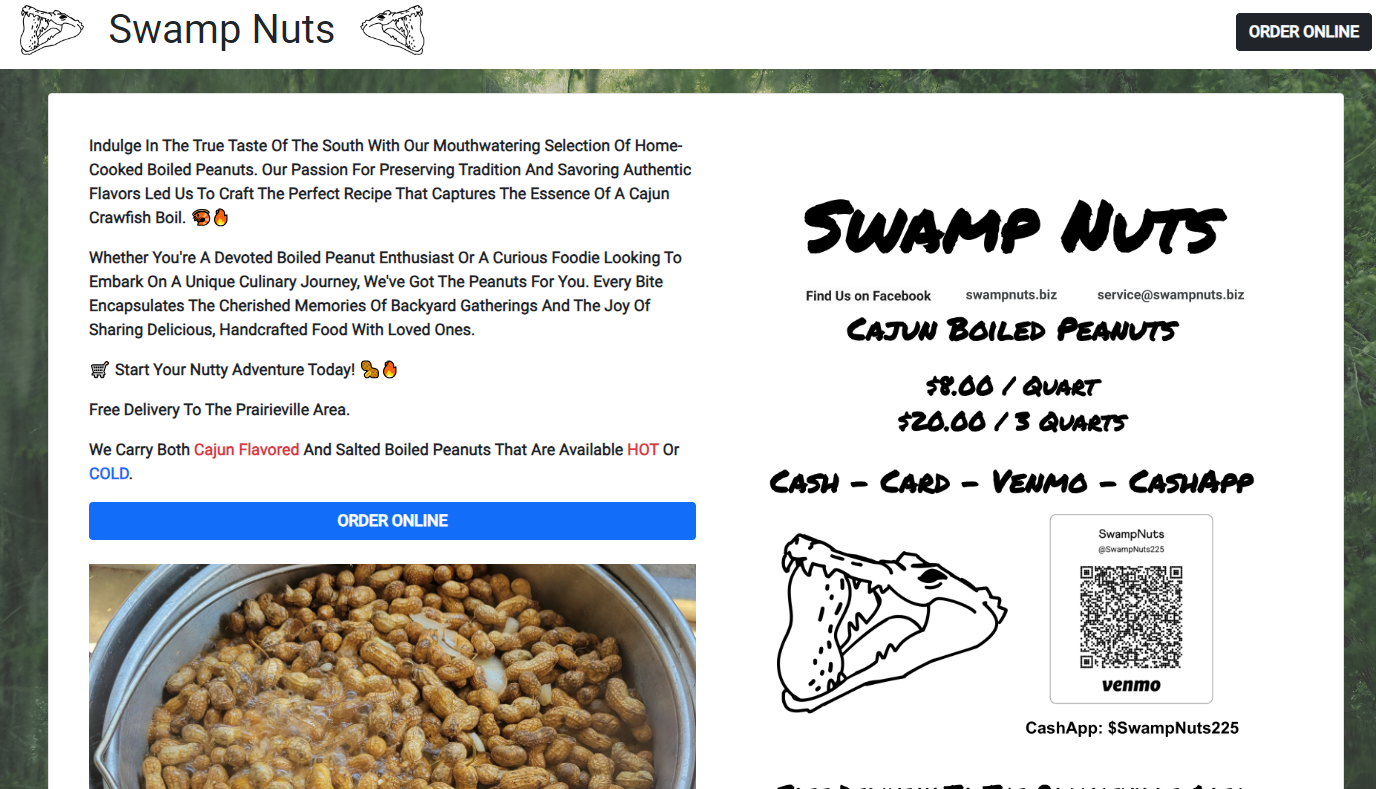
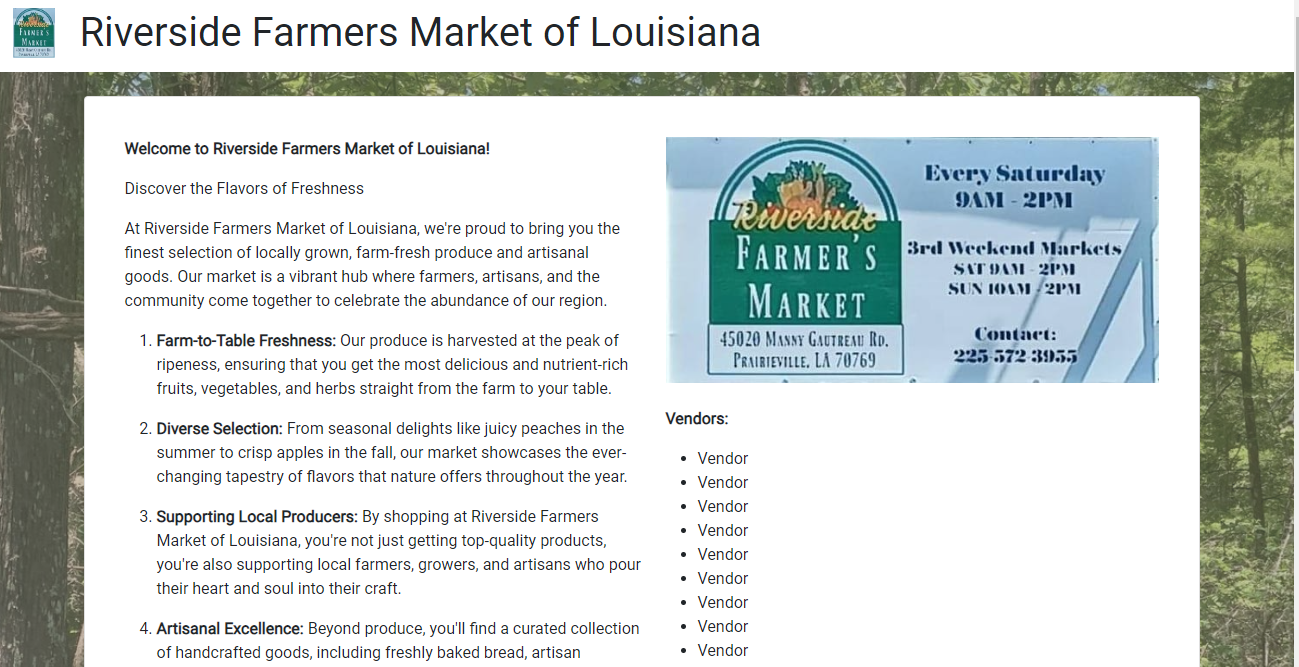
initial

diff --git a/index.html b/index.html
@@ -12,34 +12,14 @@
     <link href="https://cdn.jsdelivr.net/npm/bootstrap@5.0.2/dist/css/bootstrap.min.css" rel="stylesheet" integrity="sha384-EVSTQN3/azprG1Anm3QDgpJLIm9Nao0Yz1ztcQTwFspd3yD65VohhpuuCOmLASjC" crossorigin="anonymous">
     <script src="https://cdn.jsdelivr.net/npm/bootstrap@5.0.2/dist/js/bootstrap.bundle.min.js" integrity="sha384-MrcW6ZMFYlzcLA8Nl+NtUVF0sA7MsXsP1UyJoMp4YLEuNSfAP+JcXn/tWtIaxVXM" crossorigin="anonymous"></script>
  
-    <meta name='keywords' content="prarieville, asenction parish, louisiana, peanuts, boiled peanuts, hot boiled peanuts, cajun, cajun peanuts, cajun boiled peanuts, swamp nuts, nuts, boiled nuts">
-    <meta name='description' content="Swamp Nuts - Cajun Boiled Peanuts Delivered In The Prairieville Area.">
+    <meta name='keywords' content="prarieville, port vincent, asenction parish, louisiana, market, farmers, farmers market, vendors, flea market, swap">
+    <meta name='description' content="Riverside Farmers Market of Louisiana - Open every Saturday 9-2 and 3rd Sunday 10-2 at 45020 Manny Guitrau, Prairieville">
 
     <link rel="preconnect" href="https://fonts.googleapis.com">
     <link rel="preconnect" href="https://fonts.gstatic.com" crossorigin>
     <link href="https://fonts.googleapis.com/css2?family=Roboto&display=swap" rel="stylesheet">
 
-    <title>Swamp Nuts - Cajun Boiled Peanuts Delivered To The Prairieville Area</title>
-
- 
-	<!-- Google tag (gtag.js) -->
-	<script async src="https://www.googletagmanager.com/gtag/js?id=G-9951VXX0Q7"></script>
-	<script>
-	  window.dataLayer = window.dataLayer || [];
-	  function gtag(){dataLayer.push(arguments);}
-	  gtag('js', new Date());
-
-	  gtag('config', 'G-9951VXX0Q7');
-	</script>
-
-    <script>
-        var RecordExternalClick = function (btnName, location) {
-            gtag('event', "external-click - " + btnName, {
-                'event_category': location,
-                'event_label': btnName
-        });
-        }
-    </script>
+    <title>Riverside Farmers Market of Louisiana - Open every Saturday 9-2 and 3rd Sunday 10-2 at 45020 Manny Guitrau, Prairieville</title>
 
 
     <style>
@@ -75,39 +55,11 @@
 
 <div class="pt-2 pb-2 px-4 bg-white ">
     <div class="d-flex flex-row">
-        <img src="./assets/logotrans.png" alt="Swamp Nuts Logo" height="50" class="align-top">
-        <h1 class="align-top mx-4">Swamp Nuts</h1>
-		<img src="./assets/logotrans.png" style="transform: scaleX(-1);" alt="Swamp Nuts Logo" height="50" class="align-top">
+		<img src="./assets/content/Logo.png" alt="Swamp Nuts Logo" height="50" class="align-top">
+        <h1 class="align-top mx-4">Riverside Farmers Market of Louisiana</h1>
 		<div class="flex-grow-1"></div>
-        <div class=" d-none d-md-inline-block mt-2 d-flex">
-            <a onclick="RecordExternalClick('order online', 'header')"
-               href="https://forms.gle/Ld9PyRjF1KjoTsSZ7"
-               class="btn btn-dark text-uppercase d-inline-flex" target="_blank" rel="noreferrer noopener" title="External Link - Order Online">
-                <strong class="d-block">
-                    Order Online
-                </strong>
-            </a>
-        </div>
     </div>
 </div>
-<div class="container my-4 pb-4">
-	<div class="row mt-4">
-		<div class="col-12">
-			<div class="card bg-white">
-				<div class="card-body d-md-flex">
-					<div class="pt-4 ps-4">
-						<p>
-							We are currently <strong class="text-danger">SOLD OUT</strong>. Our next cook will be Friday 9/1/2023. <a class="btn btn-primary text-uppercase " onclick="RecordExternalClick('order online', 'header')" 
-																				       href="https://forms.gle/Ld9PyRjF1KjoTsSZ7"
-																				       target="_blank" rel="noreferrer noopener" title="External Link - Order Online">Reserve yours today!</a>
-						</p>
-					</div>
-				</div>
-			</div>
-		</div>
-	</div>
-</div>
-
 	
 <div class="container my-4 pb-4">
     <div class="row mt-4">
@@ -118,53 +70,93 @@
                     <div class="col-md-6 pt-4 ps-4">
                         <p>
                             <strong>
-                                Indulge in the true taste of the South with our mouthwatering selection of home-cooked 
-								boiled peanuts. Our passion for preserving tradition and savoring authentic flavors led 
-								us to craft the perfect recipe that captures the essence of a Cajun crawfish boil. 🦐🔥
+                                Welcome to Riverside Farmers Market of Louisiana!
                             </strong>
                         </p>
-						
+						<p>Discover the Flavors of Freshness</p>
 						<p>
-                            <strong>
-                                Whether you're a devoted boiled peanut enthusiast or a curious foodie looking to embark 
-								on a unique culinary journey, we've got the peanuts for you. Every bite encapsulates the 
-								cherished memories of backyard gatherings and the joy of sharing delicious, handcrafted food 
-								with loved ones.
-                            </strong>
-                        </p>
+							At Riverside Farmers Market of Louisiana, we're proud to bring you the finest selection of locally grown, 
+							farm-fresh produce and artisanal goods. Our market is a vibrant hub where farmers, artisans, and 
+							the community come together to celebrate the abundance of our region.
+						</p>
+						<ol>
+							<li>
+								<p>
+									<strong>Farm-to-Table Freshness:</strong> Our produce is harvested at the peak of ripeness, ensuring 
+									that you get the most delicious and nutrient-rich fruits, vegetables, and herbs straight from the 
+									farm to your table.
+								</p>
+							</li>
+							<li>
+								<p>
+									<strong>Diverse Selection:</strong> From seasonal delights like juicy peaches in the summer to crisp apples in 
+									the fall, our market showcases the ever-changing tapestry of flavors that nature offers throughout the year.
+								</p>
+							</li>
+							<li>
+								<p>
+									<strong>Supporting Local Producers:</strong> By shopping at Riverside Farmers Market of Louisiana, you're not just getting 
+									top-quality products, you're also supporting local farmers, growers, and artisans who pour their heart and 
+									soul into their craft.
+								</p>
+							</li>
+							<li>
+								<p>
+									<strong>Artisanal Excellence:</strong> Beyond produce, you'll find a curated collection of handcrafted goods, 
+									including freshly baked bread, artisan cheeses, homemade preserves, and much more.
+								</p>
+							</li>
+							<li>
+								<p>
+									<strong>Community Gathering:</strong> Riverside Farmers Market of Louisiana is more than just a place to shop – it's a space 
+									where neighbors meet, families bond, and friendships grow. Join us for special events, cooking demonstrations, 
+									and live music that make every visit a joyful experience.
+								</p>
+							</li>
+							<li>
+								<p>
+									<strong>Sustainability Matters:</strong> We're committed to sustainable and environmentally friendly practices. 
+									By choosing our market, you're contributing to a healthier planet and a more resilient local food system.
+								</p>
+							</li>
+						</ol>
+						<p>Come and Experience the Difference!</p>
 						<p>
-                            <strong>
-                                🛒 Start your nutty adventure today! 🥜🔥
-                            </strong>
-                        </p>
-						
+							Visit Riverside Farmers Market of Louisiana and immerse yourself in a world of freshness, flavors, and fun. Whether you're a 
+							passionate foodie, a health-conscious shopper, or someone who simply loves the charm of a bustling market, 
+							there's something here for everyone.
+						</p>
 						<p>
-                            <strong >
-								Free delivery to the Prairieville area.
-                            </strong>
-                        </p>
-						
+							Open every Saturday 9am-2pm and every 3rd Sunday 10am-2pm
+						</p>
 						<p>
-                            <strong>
-								We carry <span class="text-danger" >Cajun Flavored</span> peanuts that are 
-								available <span class="text-danger" > HOT</span> or <span class="text-primary">COLD</span>.
-                            </strong>
-                        </p>
-						
-						
-						<a class="btn btn-primary text-uppercase w-100 "
-						   onclick="RecordExternalClick('order online', 'header')"
-						   href="https://forms.gle/Ld9PyRjF1KjoTsSZ7"
-						   target="_blank" rel="noreferrer noopener" title="External Link - Order Online">
-							<strong class="d-block">
-								Order Online
-							</strong>
-						</a>
-						
-						<img  class="img-fluid mt-4 mb-2" src="./assets/BackToBoil.jpg">
+							<strong>Location</strong>: 45020 Manny Guitrau, Prairieville, LA<br/>
+							<strong>Hours of Operation</strong>: Saturdays 9am-2pm, every 3rd sunday of the month 10am-2pm<br/>
+							<strong>Follow Us</strong>: <a target="_blank" 
+								rel="noreferrer noopener" 
+								title="External Link - Riverside Farmers Market of Louisiana Facebook" 
+								href="https://www.facebook.com/groups/229964358625167/">Facebook</a>
+						</p>
+						<p>
+							Support local, savor the season, and celebrate community at Riverside Farmers Market of Louisiana – where every 
+							bite tells a story of dedication, care, and the beauty of nature's bounty. See you at the market!
+						</p>					
+								
                     </div>
-                    <div class="col-md-6">
-                        <img  class="img-fluid" src="./assets/Flier.PNG">
+                    <div class="col-md-6 p-4">
+                        <div><img  class="img-fluid" src="./assets/Flier.PNG"></div>
+						<p class="mt-4"><strong>Vendors:</strong></p>
+						<ul>
+							<li>Vendor</li>
+							<li>Vendor</li>
+							<li>Vendor</li>
+							<li>Vendor</li>
+							<li>Vendor</li>
+							<li>Vendor</li>
+							<li>Vendor</li>
+							<li>Vendor</li>
+							<li>Vendor</li>
+						</ul>
                     </div>
                 </div>
             </div>
@@ -183,11 +175,11 @@
                     </div>
 					<div class="col-md-4 p-3">
                         
-						<img  class="img-fluid" src="./assets/RollingBoil.jpg">
+						<img  class="img-fluid" src="./assets/Sacks.jpg">
                     </div>
 					<div class="col-md-4 p-3">
                         
-						<img  class="img-fluid" src="./assets/PouringIn.jpg">
+						<img  class="img-fluid" src="./assets/Sacks.jpg">
                     </div>
 				
                 </div>
@@ -202,7 +194,9 @@
         <div class="row">
             <div class="col-12">
                 <div class="p-4 d-inline-block">
-                    <a onclick="RecordExternalClick('facebook', 'footer')" href="https://www.facebook.com/profile.php?id=100095323822454" target="_blank" rel="noreferrer noopener" title="External Link - Swamp Nuts Facebook">
+                    <a target="_blank" rel="noreferrer noopener" 
+								title="External Link - Riverside Farmers Market of Louisiana Facebook" 
+								href="https://www.facebook.com/groups/229964358625167/">
                         <svg aria-hidden="true" width="40" height="40" focusable="false" data-prefix="fab" data-icon="facebook" class="svg-inline--fa fa-facebook fa-w-16" role="img" xmlns="http://www.w3.org/2000/svg" viewBox="0 0 512 512">
                             <path fill="currentColor" d="M504 256C504 119 393 8 256 8S8 119 8 256c0 123.78 90.69 226.38 209.25 245V327.69h-63V256h63v-54.64c0-62.15 37-96.48 93.67-96.48 27.14 0 55.52 4.84 55.52 4.84v61h-31.28c-30.8 0-40.41 19.12-40.41 38.73V256h68.78l-11 71.69h-57.78V501C413.31 482.38 504 379.78 504 256z"></path>
                         </svg>
@@ -214,16 +208,8 @@
 		
         <div class="row">
             <div class="col-12">
-                <div><strong>Swamp Nuts</strong></div>
-                <div>EMAIL: <a href="mailto: service@swampnuts.biz?subject=Question From swampnuts.biz"><strong>service@swampnuts.biz</strong></a></div>
-                <div>Located in Prairieville, La</div>
-            </div>
-
-        </div>
-		<div class="row mt-4">
-            <div class="col-12">
-                <div><strong>Our Friends</strong></div>
-                <div>Art By <a target="_blank" rel="noreferrer noopener" title="External Link - Artctype (Artist/Freelance Animator)" href="https://www.instagram.com/artctype/">Artctype (Artist/Freelance Animator)</a></div>
+                <div><strong>Riverside Farmers Market of Louisiana</strong></div>
+                <div>Location: 45020 Manny Guitrau, Prairieville, LA</div>
             </div>
 
         </div>
